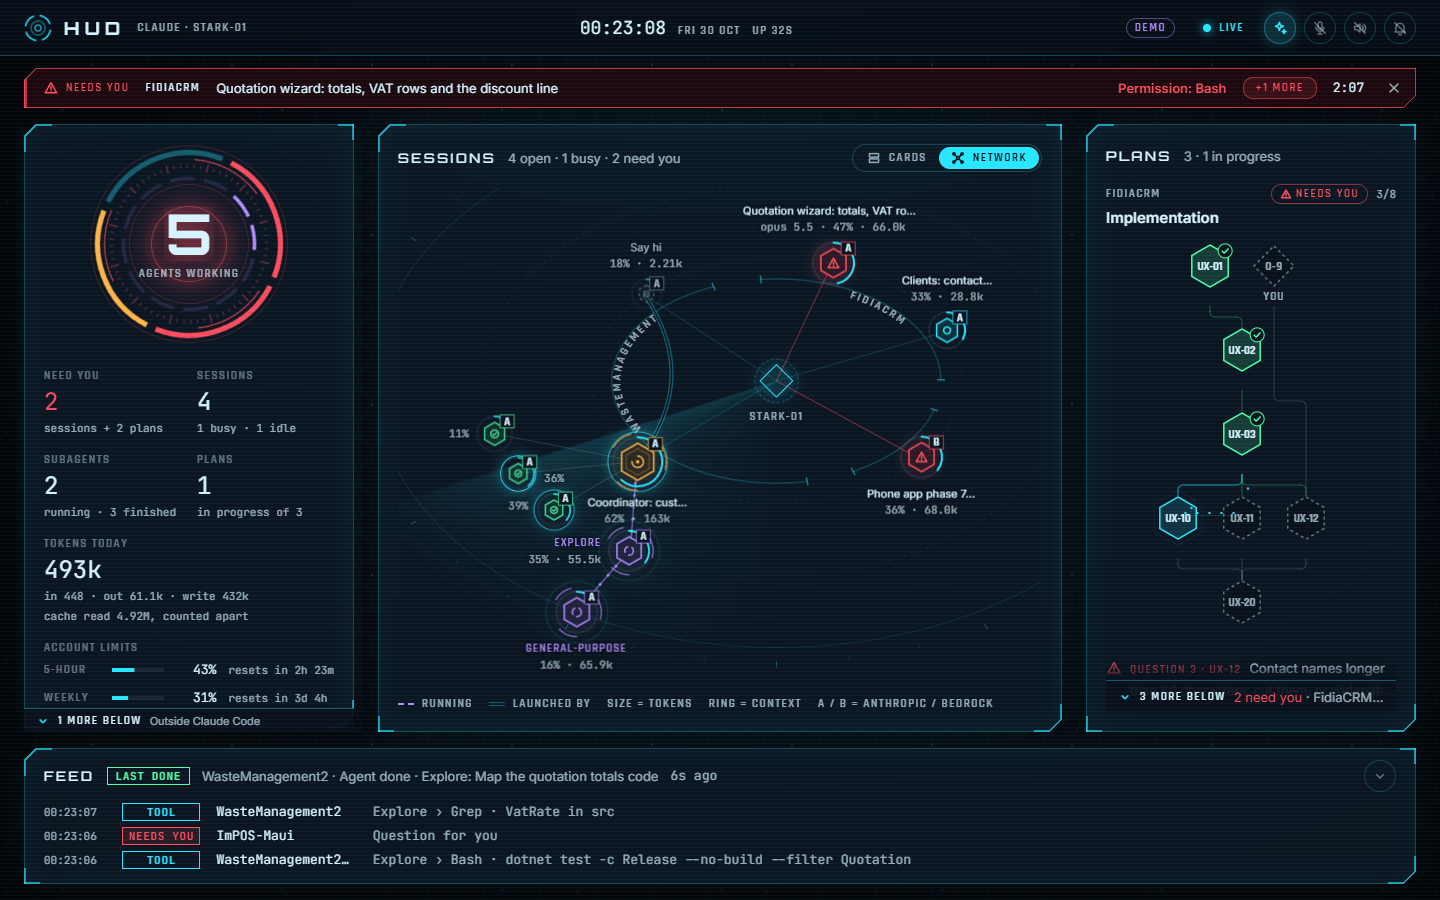
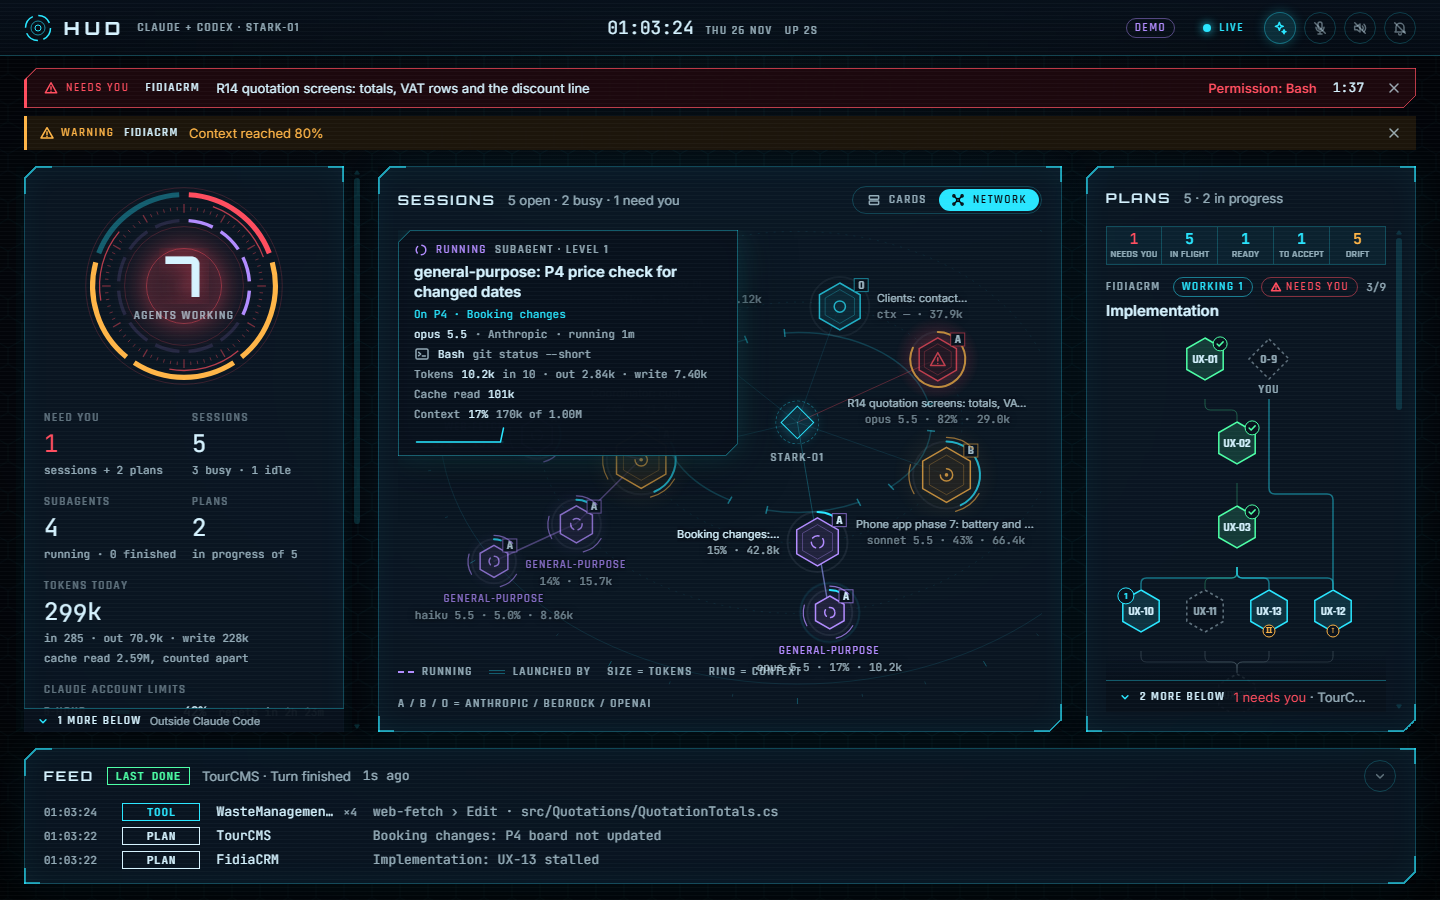
[P10] Prepare the 0.3.0 candidate
Record the verification results and leave P10 open after the live memory limit was exceeded.

diff --git a/README.md b/README.md
@@ -12,10 +12,10 @@ The dashboard runs from `hud.mjs` and its hook forwarder from `hud-hook.mjs`. Bo
 built-ins and consume no Claude usage. The dashboard listens on 127.0.0.1 unless you start it with `--lan` (see
 [Viewing it from another device](#viewing-it-from-another-device)).
 
-![Claude HUD: the network view. A coordinator session has started subagents three levels deep; two sessions are waiting for you; plan boards on the right, the live feed below.](docs/screenshots/hero-network.png)
+![Claude HUD network view showing a subagent linked to a board item, the plan work queue, and the live feed.](docs/screenshots/hero-network.png)
 
-*The network view, with `node hud.mjs --demo`: who started whom, sized by tokens, ringed by context fill. Two
-sessions need you (red).*
+*The network view with `node hud.mjs --demo`. A session needs you, an amber banner warns about context, and the
+subagent card shows its linked item and recent token activity.*
 
 ## Commands
 
@@ -39,16 +39,23 @@ node tests/tools/stream-size.mjs <url> | --demo[=dense] [--seconds=30]
                                  the number, size and rate of each event; --demo starts a demo HUD of its own
 ```
 
+Integration test files use the `*.test.mjs` suffix. On Node 26, `tests/package.json` and `tests/run-all.mjs`
+support running the directory as a suite. Run the suite with `HUD_PUSH_URL` unset. Phone push tests provide
+their own loopback receiver.
+
 Routes: `/` (the page), `/design` (the component gallery), `/api/state` (the full state as JSON), `/api/stream`
 (server-sent events), `/api/health`, and `POST /event`, which the hooks use. The stream starts each connection with
 the full state (marked `full: true`); after that a `state` event comes on every change but without the plans and the
 feed, a `plans` event comes only when a board changed, and each feed line comes as its own `event`. The page keeps the
-last plans and feed, so a steady update averages about 25 KB with `--demo=dense` (about 37 KB before the stream change).
+last plans and feed. Later state events include live board links, alerts, and phone push status. Board history
+arrives with the plan data.
 Requests whose `Host` header is not
 `127.0.0.1:<port>` or `localhost:<port>` are refused (with `--lan`, an IP address or this PC's name is accepted too).
 
 Each session and subagent has a `work` field with its linked plan, items and role, or `null` if no link resolves.
 `state.board` carries active links, ready work, handoffs awaiting acceptance, owner inputs and three drift marks.
+The HUD resolves task IDs and plan-file evidence against known boards when it takes a snapshot, so evidence can
+arrive before a board has loaded.
 An item is marked `unclaimed` after 3 minutes of active work while it is still `todo`, `stalled` after 30 minutes
 without work or board changes while it is `in-progress`, and `early` when work starts ahead of a dependency.
 `HUD_UNCLAIMED_MS` and `HUD_STALLED_MS` override the two time limits in milliseconds for tests. Each plan carries
@@ -199,12 +206,13 @@ Completed boards and boards unchanged for 14 days with no active work or owner r
 | Source | What the HUD takes from it |
 |---|---|
 | `~/.claude/sessions/<pid>.json` | The list of running sessions: id, folder, name, busy or idle, and the entrypoint used to show the local VS Code link. The `*.key` files next to them are never opened. |
-| `~/.claude/projects/<project>/<session>.jsonl` and `<session>/subagents/` | Title, model, effort, branch, tokens, tool names, provider, and subagents (their `meta.json` gives the parent). For board links, it extracts ID-shaped words from user and Agent prompts and keeps only those words in memory. It also reads the paths of `Read`, `Edit`, `Write` and `MultiEdit` calls for Markdown files under `docs/`, `Documentation/` or `doc/`. Of the `api-request` lines, only the model id. Read from where it left off, a line at a time. |
+| `~/.claude/projects/<project>/<session>.jsonl` and `<session>/subagents/` | Title, model, effort, branch, tokens, message IDs and times for usage deduplication and activity, tool names and input summaries, provider, and subagents (their `meta.json` gives the parent). For board links, it extracts ID-shaped words from user and Agent prompts and keeps only those words in memory. It also reads the paths of `Read`, `Edit`, `Write` and `MultiEdit` calls for Markdown files under `docs/`, `Documentation/` or `doc/`. Of the `api-request` lines, only the model id. Read from where it left off, a line at a time. |
 | Hook events (`POST /event`) | Event name and time, tool name and the input fields used for short summaries and board-file evidence. Prompt and Stop hooks time Claude turns, and the background flag keeps background tools out of the long-tool warnings. The forwarder omits prompt bodies and the receiver drops them from direct posts. With `HUD_RECORD=<file>` set (off by default), the redacted event is also written to that file. |
 | `docs/**/STATUS.md`, `docs/plans/*.md` and `docs/status.md` in each project with a session | Plan boards, the plan's state, unticked decisions and open questions, and the project's one-line headline. |
-| `~/.claude/settings.json` (and each other watched folder's) | Only `env.CLAUDE_CODE_USE_BEDROCK` (to label sessions as Bedrock) and whether the HUD's hooks are installed. The HUD writes to it only to add its own hooks, at start (backup first). |
+| `~/.claude/settings.json` (and each other watched folder's) | The Bedrock flag `env.CLAUDE_CODE_USE_BEDROCK` and whether the HUD's hooks are installed. The installer backs up the file before adding or migrating HUD hook entries. The uninstall command removes those entries. |
 | `~/.claude.json` | Only `cachedUsageUtilization`: the 5-hour and weekly usage Claude Code caches itself. |
 | `CODEX_HOME/sessions/YYYY/MM/DD/rollout-*.jsonl` | Session metadata, short redacted title, model, effort, branch, cumulative tokens, reported context, tool names and short summaries, turn status, and subagent parent IDs. Read incrementally; reasoning, instructions and tool output are discarded. |
+| Local page and API clients | Full snapshots contain session and subagent state, output activity, turn timing, board links and changes, alerts, push status, and the recent feed. The VS Code action hands the session folder to the local URL handler when selected. The browser stores display preferences locally. |
 | Optional phone receiver (`HUD_PUSH_URL`) | The HUD sends the project label and request kind in a text POST with a fixed title header. Session titles, paths, commands, and session IDs stay on the HUD. |
 
 It never reads `~/.claude/.credentials.json`, the session `*.key` files, `~/.aws/` or any `AWS_*` environment
@@ -229,7 +237,8 @@ PostToolUse, PostToolUseFailure, Notification, Stop, SubagentStart, SubagentStop
 The installer backs up the settings to `settings.json.hud-backup-<date>` before changing the HUD's hooks.
 When the current hooks are already there, it skips the write and backup. An install or restart upgrades
 hooks using `node "<path>/hud.mjs" hook` to the standalone forwarder. The old invocation also works. Keep the two
-scripts together when moving the HUD. Invalid JSON produces a message and leaves the file as it was.
+scripts together when moving the HUD. Both invocations share the field allowlists in `hud-hook.mjs`. Invalid JSON
+produces a message and leaves the file as it was.
 `uninstall` removes both command formats from every watched folder. When the result matches a backup, it
 restores that backup's exact bytes. Because the HUD adds
 the hooks at every start, set `HUD_NO_AUTOINSTALL=1` (and `autostart off`) if you want them to stay removed.

diff --git a/docs/plans/hud-0-3/STATUS.md b/docs/plans/hud-0-3/STATUS.md
@@ -18,7 +18,7 @@ Every agent reads this file first and updates it last.
 | P7 | Page extras | `page` | P6 | Opus 5.5 / high | accepted | 2026-11-26 | [P7](handoffs/P7-page.md) | Selftest, 39 Node tests and all Edge smoke checks rechecked |
 | P8 | TV mode and phone push | `away` | P7 | Opus 5.5 / high | accepted | 2026-11-26 | [P8](handoffs/P8-away.md) | Selftest, 42 Node tests and both kiosk layouts independently verified |
 | P9 | A faster hook forwarder | `hooks` | P8 | Opus 5.5 / high | accepted | 2026-11-26 | [P9](handoffs/P9-hooks.md) | 43 tests, byte-exact migration and 5.60 ms p95 overhead independently verified |
-| P10 | Verify and close | `review` | P9 | Opus 5.5 / high | todo | | — | |
+| P10 | Verify and close | `review` | P9 | Opus 5.5 / high | partial | 2026-11-26 | — | 0.3.0 candidate passes tests. Live RSS peaked at 213.12 MB against 150 MB. |
 
 Every item changes `hud.mjs`, so they run one after another. The chain in "Depends on" is that order.
 
@@ -119,6 +119,14 @@ This plan's own rules, on top of the standard.
   settings hashes matched.
 - 2026-11-26 · coordinator · P9 · Accepted after selftest, 43 Node tests and independent migration and 30-run timing
   checks. The forwarder measured 44.79 ms p95, 5.60 ms above bare Node. The owner settings hash still matched.
+- 2026-11-26 · review · P10 · Prepared the 0.3.0 candidate and refreshed the demo screenshot. Selftest, all 43
+  Node tests and 11 Edge layouts passed. Lint reported no issue for this plan. The read-only HUD on port 7790
+  ran for 600.07 s. Its 263 later SSE frames peaked at 20,240 bytes, and all 14 sampled live links matched
+  source transcripts and project boards. The sample included one active ID-prefixed worker linked in flight
+  and no blank subagents. Mean CPU was 0.979% of one core, with a 7.368% peak over rolling 30 s windows.
+  Peak RSS was 213.12 MB against the 150 MB limit. Two Codex open-state intervals lasted 6.440 s and 7.759 s.
+  The observer counted ended sessions outside the open state, so these intervals do not establish that
+  either card disappeared. The plan stays open pending investigation and a full live recheck.
 
 ## Kickoff
 

diff --git a/docs/DESIGN.md b/docs/DESIGN.md
@@ -150,7 +150,7 @@ As built. Each entry says what the component shows, its states, and which motion
 `?kiosk` uses the network view and enlarges body text to 18 px. The top-bar toggles, session view switch and
 feed collapse control are hidden. At TV widths the page fits the viewport and panels handle their own overflow.
 The oldest needs-you session in view is pinned automatically. When it clears, the next waiting session takes
-its place. The screen wake lock is requested while the page is visible where the browser supports it.
+its place. Where supported, the page requests a screen wake lock again when it becomes visible.
 
 ### Top bar
 
@@ -189,7 +189,8 @@ button dismisses the summary until the next qualifying absence.
 Project names in the network, session cards, plan cards and feed are controls. Choosing one filters all three
 panels, including the plan work queue and feed header. The active project appears as a removable chip in the
 Sessions header. Choose the same project again, remove the chip or press Escape to clear it. The address reflects
-the current focus in `?project=`.
+the current focus in `?project=`. The feed keeps its recent history across focus changes, and the page filters
+session and plan lists before reconciling them.
 
 ### VS Code window
 
